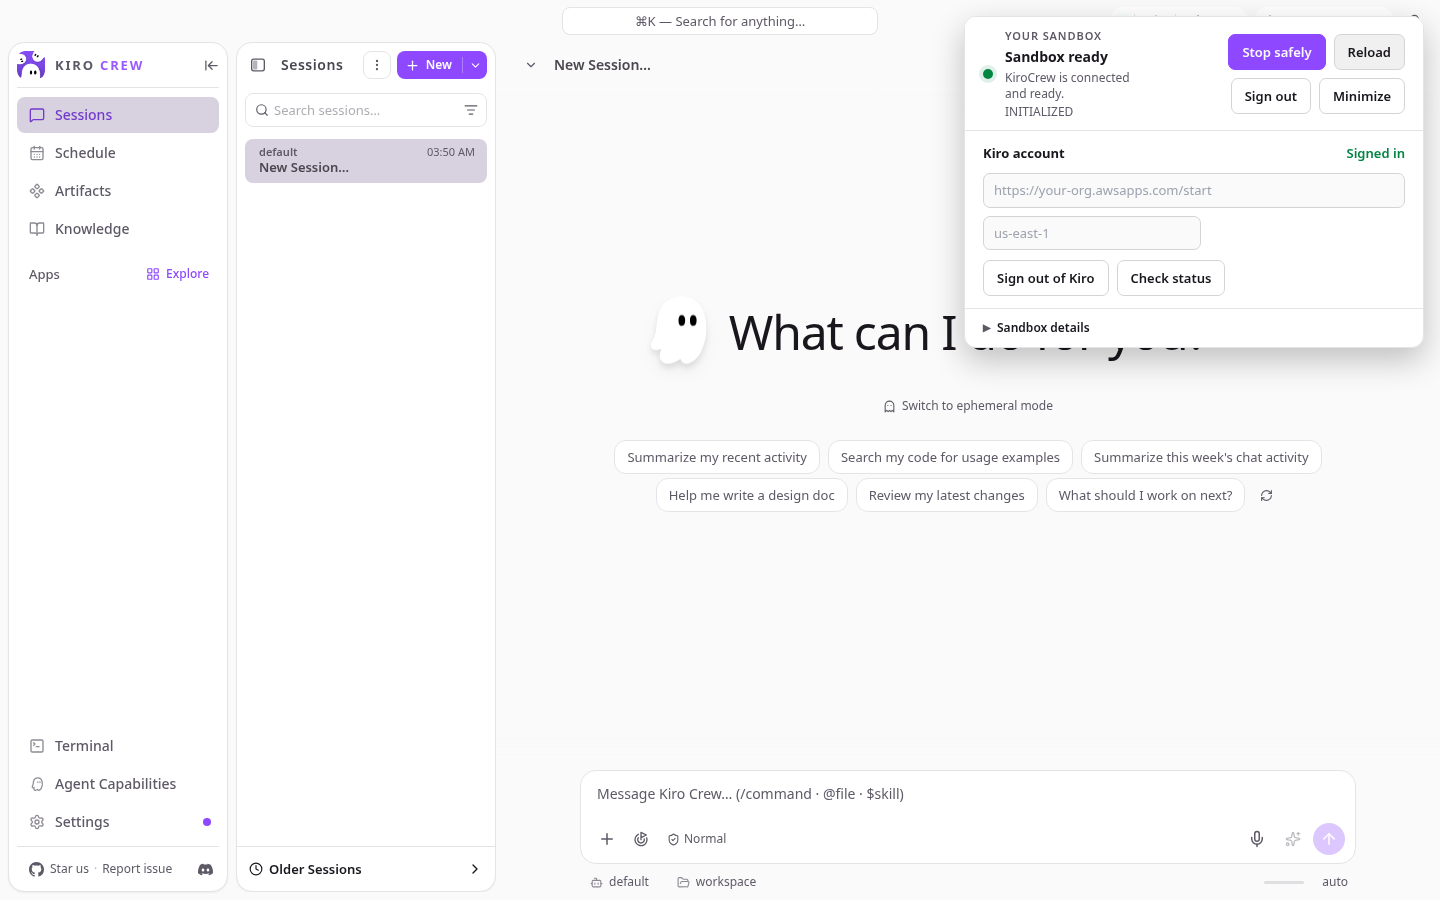
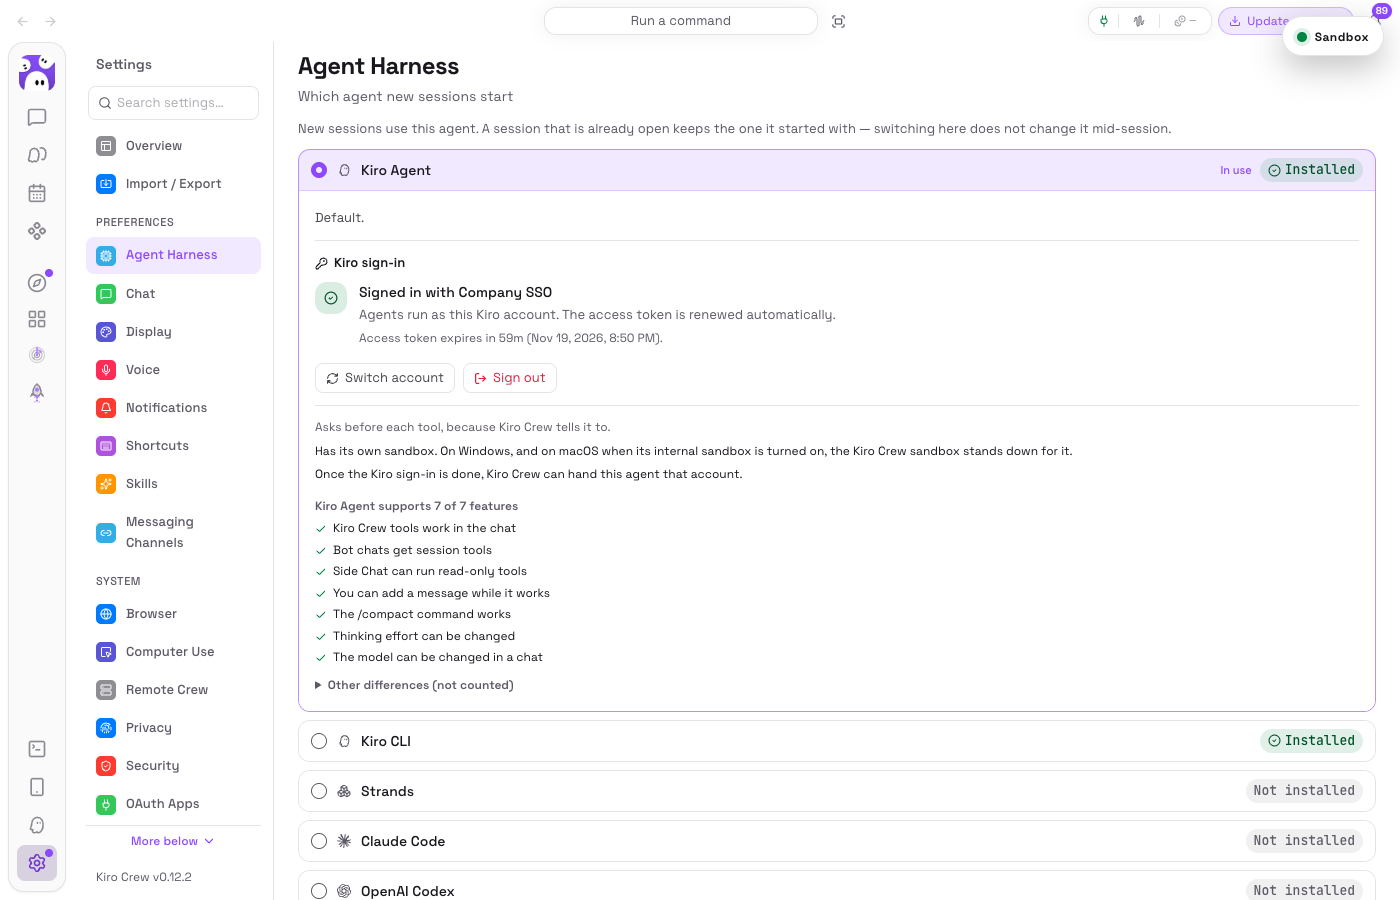
docs: show the Sandbox pill and document Kiro sign-in in Settings
The README image now shows the everyday view, the small Sandbox pill,
with a callout of the panel it opens. The user guide follows the KAS
default: Kiro sign-in happens in Settings > Agent Harness > Kiro Agent
(or from the chat's Sign in to Kiro prompt), and a stopped sandbox
starts on its own when the page opens. Screenshots come from a fresh
test user on the Singapore dev deployment.

diff --git a/docs/user-guide/README.md b/docs/user-guide/README.md
@@ -60,13 +60,13 @@ With an existing account, enter email and password in the same form and click **
 - The session is kept in the browser: closing the tab and coming back does not ask for the password again. Only **Sign out** on the panel ends it.
 - Forgot your password: **Forgot password?** → enter your email → **Send code** → enter the emailed code and a new password → **Reset password**.
 
-After signing in the panel looks like this. `Sandbox stopped` means your sandbox exists but is not running; the workspace saved last time is ready to restore.
+After signing in, the sandbox starts on its own; you do not need to click anything. If it was stopped, the panel briefly shows `Sandbox stopped` before startup begins.
 
 ![Signed in, sandbox stopped](images/07-signed-in-stopped.png)
 
 ## 4. Start the sandbox
 
-Click **Start sandbox**. The panel shows three steps with elapsed time: Requesting compute → Restoring workspace → Starting KiroCrew.
+Opening the page, or signing in, starts a stopped sandbox automatically. (**Start sandbox** is still there for a sandbox in an error state.) The panel shows three steps with elapsed time: Requesting compute → Restoring workspace → Starting KiroCrew.
 
 ![Startup progress](images/08-starting-progress.png)
 
@@ -95,24 +95,30 @@ Expand **Sandbox details** to see the microVM uptime, recent state changes, and 
 
 ## 5. Sign in to Kiro
 
-Once the sandbox is ready, the **Kiro account** section in the middle of the panel shows **Not signed in**. KiroCrew calls models with your own Kiro account. You do this once; the sign-in is saved with your workspace.
+KiroCrew calls models with your own Kiro account. Sign-in happens inside KiroCrew itself, not in the sandbox panel. You do this once; the sign-in is saved with your workspace and survives Stop safely and restarts.
 
-Two options:
+If you send a message before signing in, KiroCrew answers with a **Sign in to Kiro** button that takes you to the right place:
 
-- **Sign in with Builder ID**: a personal AWS Builder ID.
-- **Sign in with SSO**: your organization's IAM Identity Center. Fill in the Start URL (like `https://your-org.awsapps.com/start`) and Region in the two fields above the buttons first.
+![Prompt to sign in to Kiro](images/15-chat-sign-in-prompt.png)
 
-Clicking either shows a **Kiro sign-in required** section with a code and a verification address:
+Or go there directly: **Settings** → **Agent Harness** → **Kiro Agent** (the default, marked **In use**) → **Kiro sign-in**. Pick one option:
+
+- **Continue with AWS Builder ID**, **Google**, or **GitHub**: a personal account.
+- **Company SSO**: your organization's IAM Identity Center. Enter the **Company sign-in URL** (like `https://your-org.awsapps.com/start`) and, if needed, the AWS Region, then click **Continue**.
+
+![Kiro sign-in options in Settings](images/12-kiro-sign-in-settings.png)
+
+KiroCrew then shows a link and a code:
 
 ![Device authorization code](images/12-kiro-device-code.png)
 
-1. Click **Open Kiro verification** (or copy the address) to open it in a new tab.
-2. Sign in with your Builder ID or SSO account, check that the code on that page matches the panel, and allow it.
-3. Back on this page, the panel updates to **Signed in** within a few seconds (**Check status** refreshes it on demand). The code is valid for about 10 minutes; if it expires, click the sign-in button again.
+1. Open the link in your browser (or copy it with the button next to it).
+2. Sign in, check that the code on that page matches, and allow it.
+3. Back in KiroCrew the section changes to **Signed in** within a few seconds. The code is valid for about 10 minutes; if it expires, start the sign-in again.
 
 ![Kiro signed in](images/13-kiro-signed-in.png)
 
-The panel collapses on its own after sign-in. **Sign out of Kiro** disconnects only the Kiro account; the sandbox and your KiroCrew sign-in are unaffected.
+**Sign out** here disconnects only the Kiro account; the sandbox and your KiroCrew web sign-in are unaffected.
 
 ## 6. Start your first session
 
@@ -130,16 +136,13 @@ The floating panel shows different buttons depending on state:
 |---|---|---|
 | **Sign in / Create account** | Signed out | Sign in to, or register, a KiroCrew account |
 | **Forgot password?** | Signed out | Reset the password with an emailed code |
-| **Start sandbox** | Sandbox stopped, or in an error state | Request compute and restore the most recent saved workspace |
+| **Start sandbox** | Sandbox in an error state (a stopped sandbox starts on its own when the page opens) | Request compute and restore the most recent saved workspace |
 | **Stop safely** | Sandbox running | Save an encrypted checkpoint first, then release compute. Use this to stop; do not just close the page |
 | **Response in progress** | A reply is being generated | Disabled form of Stop safely; stop after the reply finishes |
 | **Retry safely / Check connection** | Connection lost | Re-establish the connection without resubmitting a request that was already accepted |
 | **Reload** | Signed in | Reload the page and reconnect without stopping the sandbox |
 | **Sign out** | Signed in | Sign out of KiroCrew in this browser. The sandbox and its data remain; sign in again to continue |
 | **Minimize** | Panel expanded | Collapse to the pill in the upper right; click the pill to expand |
-| **Sign in with SSO / Builder ID** | Kiro not signed in | Start Kiro device authorization |
-| **Sign out of Kiro** | Kiro signed in | Disconnect the Kiro account |
-| **Check status** | Sandbox running | Re-check the Kiro sign-in state |
 | **Sandbox details** | Signed in | Show uptime, state history, and persisted paths |
 
 Panel titles and what they mean:
@@ -147,7 +150,7 @@ Panel titles and what they mean:
 | Title | Meaning |
 |---|---|
 | Sign in to KiroCrew | Signed out |
-| Sandbox stopped | Signed in, sandbox not running; Start is available |
+| Sandbox stopped | Signed in, sandbox not running; it starts again the next time you open the page |
 | Starting your sandbox | Starting; watch the three-step progress |
 | Sandbox ready | Running; KiroCrew is usable |
 | KiroCrew is responding | A reply is being generated |
@@ -158,7 +161,7 @@ Panel titles and what they mean:
 
 ## 8. Stopping and signing out
 
-- **Click Stop safely when you are done.** It writes the workspace to an encrypted checkpoint before releasing compute; the next Start restores exactly that state. Stopping takes from about 10 seconds to a minute depending on workspace size.
+- **Click Stop safely when you are done.** It writes the workspace to an encrypted checkpoint before releasing compute; opening the page again starts the sandbox and restores exactly that state. Stopping takes from about 10 seconds to a minute depending on workspace size.
 - Forgetting is not fatal: an idle sandbox is reclaimed after 15 minutes, and a running sandbox checkpoints itself every few minutes, so at most a few minutes of changes are lost. If background work is running, the sandbox stays up until it finishes.
 - **Sign out** only ends the sign-in in this browser; it does not stop the sandbox.
 
@@ -169,5 +172,9 @@ Panel titles and what they mean:
 **No verification code**: check spam. The subject is "Your verification code", the sender `no-reply@verificationemail.com`; click Resend code.
 
 **Sandbox needs attention**: click **Reload** first; if that does not help, **Start sandbox**. Your data is in the checkpoint and is not lost by restarting.
+
+**The page keeps showing "The runtime request failed"**: an older copy of your sandbox may still be holding on after a takeover. Wait a few minutes and open the page again; the platform reclaims the old copy and the next sign-in claims your sandbox normally. Your data is safe in the last checkpoint.
+
+**A chat says "Not signed in to Kiro"**: click **Sign in to Kiro** in that message, or follow [step 5](#5-sign-in-to-kiro).
 
 **Slow replies or Gateway offline**: the sandbox may still be cold-starting; wait for the panel to show Sandbox ready. If the panel is ready but the page still shows offline, click Reload.

diff --git a/docs/user-guide/README.zh-CN.md b/docs/user-guide/README.zh-CN.md
@@ -60,13 +60,13 @@
 - 登录状态会保存在浏览器中，关闭标签页再打开不需要重新登录；点面板上的 **Sign out** 才会退出。
 - 忘记密码：点 **Forgot password?** → 输入邮箱 → **Send code** → 填入邮件里的验证码和新密码 → **Reset password**。
 
-登录成功后的面板如下，`Sandbox stopped` 表示你的沙箱已存在但当前没有在运行，之前保存的工作区随时可以恢复。
+登录后沙箱会自动启动，不用点任何按钮。如果沙箱之前是停止的，面板会先短暂显示 `Sandbox stopped`，随后开始启动。
 
 ![登录成功，沙箱处于停止状态](images/07-signed-in-stopped.png)
 
 ## 4. 启动沙箱
 
-点击 **Start sandbox**。面板会显示三步进度：Requesting compute（申请计算资源）→ Restoring workspace（恢复加密工作区）→ Starting KiroCrew（启动 KiroCrew），并显示已用时间。
+打开页面或登录后，停止的沙箱会自动启动（只有沙箱处于错误状态时，才需要手动点 **Start sandbox**）。面板会显示三步进度：Requesting compute（申请计算资源）→ Restoring workspace（恢复加密工作区）→ Starting KiroCrew（启动 KiroCrew），并显示已用时间。
 
 ![启动进度](images/08-starting-progress.png)
 
@@ -95,24 +95,30 @@
 
 ## 5. 登录 Kiro 账号
 
-沙箱就绪后，面板中部的 **Kiro account** 区域显示 **Not signed in**。KiroCrew 需要用你自己的 Kiro 账号调用模型，这一步只需做一次，登录状态会随工作区一起保存。
+KiroCrew 用你自己的 Kiro 账号调用模型。登录在 KiroCrew 自己的设置页里完成，不在沙箱面板里。只需登录一次，登录状态会随工作区一起保存，Stop safely 和重启后都还在。
 
-两种方式：
+如果还没登录就发了消息，KiroCrew 会回复一个 **Sign in to Kiro** 按钮，点它就会进入登录位置：
 
-- **Sign in with Builder ID**：个人 AWS Builder ID。
-- **Sign in with SSO**：组织的 IAM Identity Center。先在上方两个输入框填入组织的 Start URL（形如 `https://your-org.awsapps.com/start`）和 Region，再点按钮。
+![提示登录 Kiro](images/15-chat-sign-in-prompt.png)
 
-点击后面板出现 **Kiro sign-in required** 区域，给出一个验证码和验证页地址：
+也可以直接进入：**Settings** → **Agent Harness** → **Kiro Agent**（默认引擎，标着 **In use**）→ **Kiro sign-in**，选一种方式：
+
+- **Continue with AWS Builder ID**、**Google** 或 **GitHub**：个人账号。
+- **公司 SSO**：组织的 IAM Identity Center。填入 **Company sign-in URL**（形如 `https://your-org.awsapps.com/start`），需要时填 AWS Region，然后点 **Continue**。
+
+![设置页里的 Kiro 登录选项](images/12-kiro-sign-in-settings.png)
+
+随后页面给出一个链接和一个验证码：
 
 ![设备授权码](images/12-kiro-device-code.png)
 
-1. 点击 **Open Kiro verification**（或复制下方地址）在新标签页打开。
-2. 用你的 Builder ID / SSO 账号登录，确认页面显示的代码与面板一致，点击允许。
-3. 回到本页面，面板会在几秒内自动更新为 **Signed in**（也可以点 **Check status** 主动刷新）。验证码约 10 分钟有效，过期后重新点一次登录按钮即可。
+1. 在浏览器中打开链接（或点旁边的按钮复制）。
+2. 登录账号，确认页面上的代码一致，点允许。
+3. 回到 KiroCrew，几秒内显示 **Signed in**。验证码约 10 分钟有效，过期后重新发起登录即可。
 
 ![Kiro 已登录](images/13-kiro-signed-in.png)
 
-登录后面板会自动收起。**Sign out of Kiro** 只断开 Kiro 账号，不影响沙箱和 KiroCrew 登录。
+这里的 **Sign out** 只断开 Kiro 账号，不影响沙箱和网页登录。
 
 ## 6. 开始第一个会话
 
@@ -130,16 +136,13 @@
 |---|---|---|
 | **Sign in / Create account** | 未登录 | 登录或注册 KiroCrew 账号 |
 | **Forgot password?** | 未登录 | 通过邮件验证码重置密码 |
-| **Start sandbox** | 沙箱已停止，或处于错误状态 | 申请计算资源并恢复最近一次保存的工作区 |
+| **Start sandbox** | 沙箱处于错误状态（停止的沙箱打开页面时会自动启动） | 申请计算资源并恢复最近一次保存的工作区 |
 | **Stop safely** | 沙箱运行中 | 先保存一份加密检查点，再释放计算资源。需要停用时请用它，不要直接关页面 |
 | **Response in progress** | 正在生成回复 | Stop safely 的禁用态，等回复结束后再停止 |
 | **Retry safely / Check connection** | 连接中断 | 重新建立连接；不会重复发送已经被接受的请求 |
 | **Reload** | 已登录 | 刷新页面并重连沙箱，不会停止沙箱 |
 | **Sign out** | 已登录 | 退出 KiroCrew 登录。沙箱和数据保留，下次登录可继续 |
 | **Minimize** | 面板展开时 | 收起为右上角圆片；点圆片重新展开 |
-| **Sign in with SSO / Builder ID** | Kiro 未登录 | 发起 Kiro 设备授权 |
-| **Sign out of Kiro** | Kiro 已登录 | 断开 Kiro 账号 |
-| **Check status** | 沙箱运行中 | 重新检查 Kiro 登录状态 |
 | **Sandbox details** | 已登录 | 展开运行时长、状态历史和持久化路径 |
 
 面板标题对应的状态：
@@ -147,7 +150,7 @@
 | 标题 | 含义 |
 |---|---|
 | Sign in to KiroCrew | 未登录 |
-| Sandbox stopped | 已登录，沙箱未运行，可以 Start |
+| Sandbox stopped | 已登录，沙箱未运行，下次打开页面会自动启动 |
 | Starting your sandbox | 启动中，看下方三步进度 |
 | Sandbox ready | 运行中，KiroCrew 可用 |
 | KiroCrew is responding | 正在生成回复 |
@@ -158,7 +161,7 @@
 
 ## 8. 停止与退出
 
-- **用完请点 Stop safely**。它会先把工作区写成加密检查点再释放资源，下次 Start 恢复到停止时的状态。停止过程约 10 秒到 1 分钟，视工作区大小而定。
+- **用完请点 Stop safely**。它会先把工作区写成加密检查点再释放资源，下次打开页面时自动启动，恢复到停止时的状态。停止过程约 10 秒到 1 分钟，视工作区大小而定。
 - 忘记停止也没关系：沙箱空闲 15 分钟后会自动回收；运行中每隔几分钟会自动保存检查点，最多丢失几分钟的改动。如果有后台任务在跑，沙箱会保持运行直到任务结束。
 - **Sign out** 只是退出这台浏览器的登录，不停止沙箱。
 
@@ -169,5 +172,9 @@
 **没收到验证码**：检查垃圾邮件，邮件主题是 "Your verification code"，发件人 `no-reply@verificationemail.com`；点 Resend code 重发。
 
 **Sandbox needs attention**：先点 **Reload**；仍不行就点 **Start sandbox**。数据保存在检查点里，不会因为重新启动丢失。
+
+**页面一直提示 "The runtime request failed"**：可能是沙箱被接管后，旧的那一份还没释放。等几分钟再打开页面，平台回收旧的那份后，下次登录会正常接回你的沙箱。数据在最近一次检查点里，不会丢。
+
+**对话里提示 "Not signed in to Kiro"**：点消息里的 **Sign in to Kiro**，或按[第 5 步](#5-登录-kiro-账号)登录。
 
 **回复很慢或 Gateway offline**：沙箱可能正在冷启动，等待面板变为 Sandbox ready。如果面板已就绪但页面仍显示离线，点 Reload。

diff --git a/README.zh-CN.md b/README.zh-CN.md
@@ -9,7 +9,7 @@ KiroCrew 体验。
 自己的 Kiro 账号（Builder ID 或组织 SSO）完成授权。聊天、会话和交互式终端实时传输到浏览器；
 工作区和 Kiro 登录态通过加密的 S3 检查点在沙箱重启后继续保留。
 
-![运行在 AgentCore 沙箱中的 KiroCrew。悬浮面板显示沙箱已恢复就绪，对话使用用户自己的 Kiro 登录。](docs/dashboard.png)
+![运行在 AgentCore 沙箱中的 KiroCrew。平时沙箱面板只是右上角的 Sandbox 小圆片，点开后就是标注里的面板（沙箱已恢复就绪，可 Stop safely、Reload、Sign out）。](docs/dashboard.png)
 
 *由 AgentCore microVM 提供服务的原版 KiroCrew 控制台。右下角的悬浮面板是本项目唯一新增的
 界面：沙箱生命周期、Kiro 登录，以及会先创建检查点的安全停止。*

diff --git a/README.md b/README.md
@@ -11,7 +11,7 @@ SSO). Chat, sessions, and the interactive terminal stream to the browser, while 
 workspace and the Kiro sign-in survive sandbox restarts through encrypted S3
 checkpoints.
 
-![KiroCrew running inside an AgentCore sandbox. The floating panel shows the sandbox restored and ready, and the chat answers through the user's own Kiro sign-in.](docs/dashboard.png)
+![KiroCrew running inside an AgentCore sandbox. In everyday use the sandbox panel is a small Sandbox pill in the upper right; clicking it opens the panel shown in the callout (sandbox restored and ready, Stop safely, Reload, Sign out).](docs/dashboard.png)
 
 *The unmodified KiroCrew dashboard, served from an AgentCore microVM. The floating
 panel in the corner is the only UI this project adds: sandbox lifecycle, Kiro
